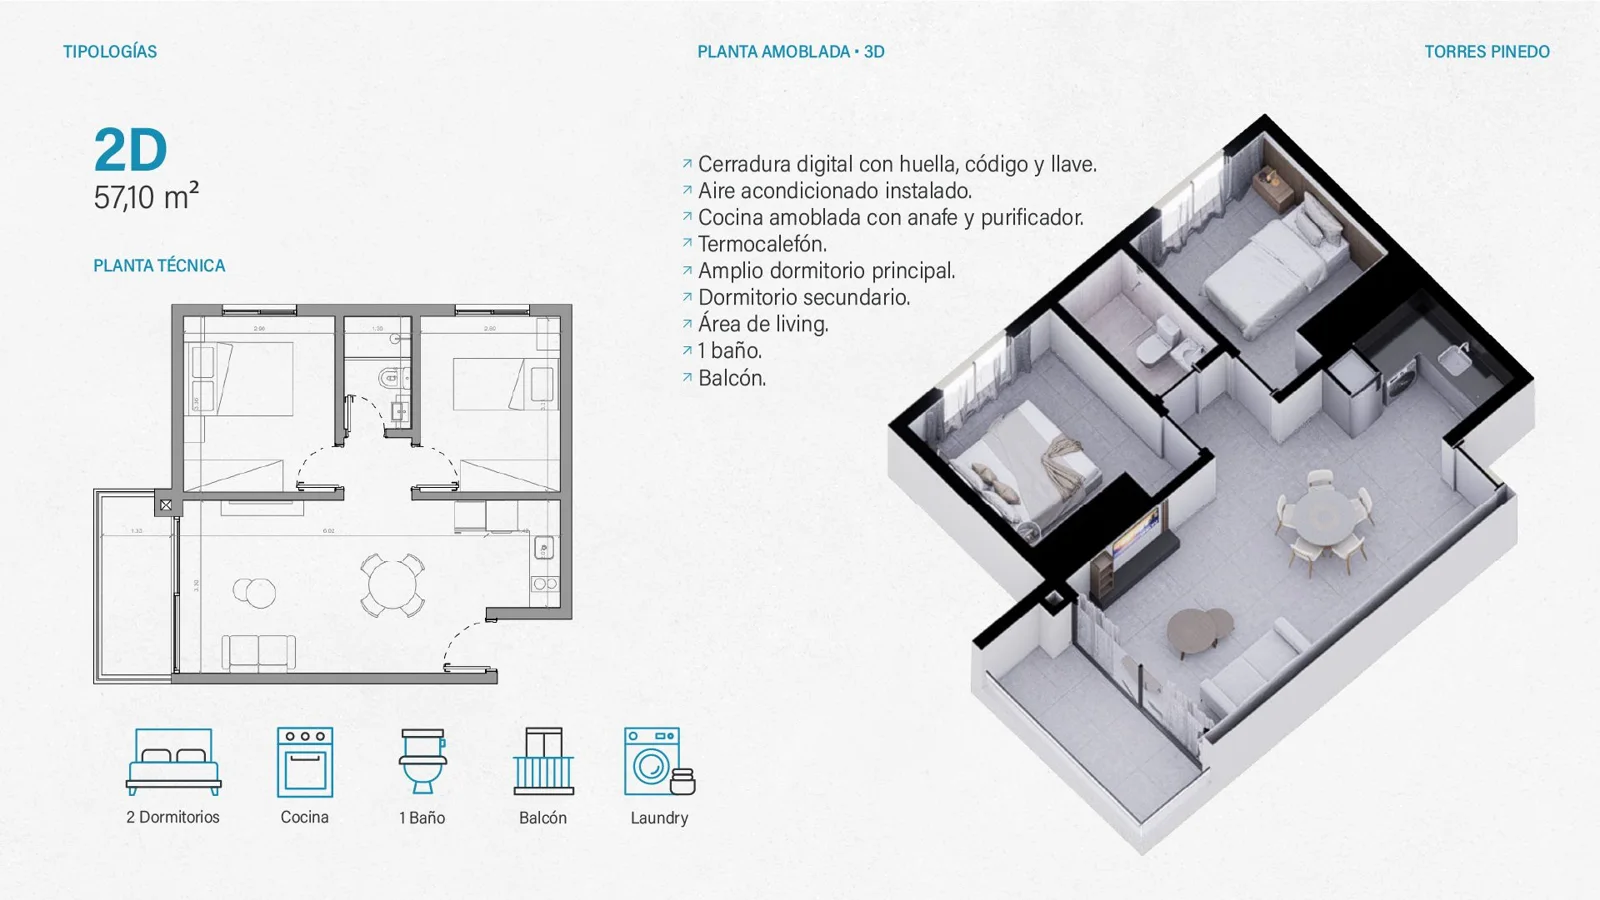
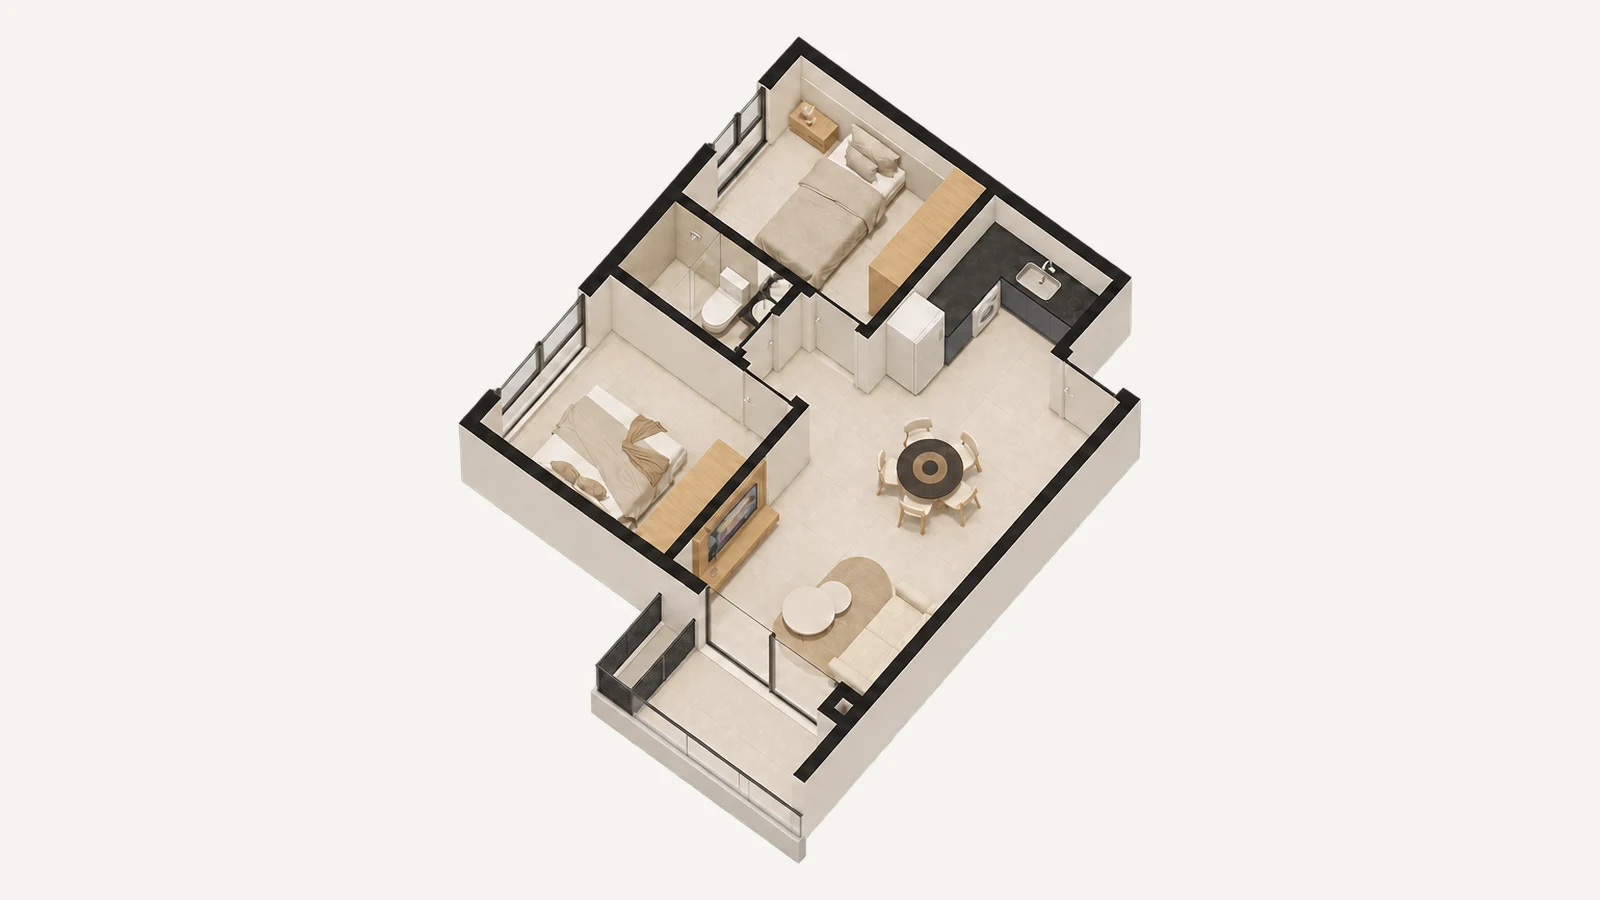
Pinedo: plantas 3D nuevas por tipología (y versión con patio en planta baja) en la ficha, el zoom y el PDF
Claude-Session: https://claude.ai/code/session_01WXN6MccAs49g9rjqcWi9do

diff --git a/sitios/pinedo/index.html b/sitios/pinedo/index.html
@@ -816,7 +816,7 @@ function renderFicha(u) {
    <div class="price num">${pr}${ver && u.precio ? `<small>${money(u.precio / u.m2)} / m²</small>` : ''}</div>
    <div style="font-size:12px;color:var(--mu);margin-top:2px">${opc ? 'Suma de las unidades ' + u.u.map(x => `${x.id} (${x.tipo}, ${x.m2} m²)`).join(' + ') : 'Precio de lista ' + CONFIG.listaFecha}</div>
    <div class="grid2"><div class="cell"><small>Superficie</small><b class="num">${String(u.m2).replace('.', ',')} m²</b></div><div class="cell"><small>Dormitorios · baños</small><b>${u.dorm || 'Studio'} · ${u.banos}</b></div><div class="cell"><small>Ubicación</small><b>Torre ${u.torre} · ${u.piso ? 'Piso ' + u.piso : 'PB'}</b></div><div class="cell"><small>${u.piso === 0 ? 'Extra' : 'Tipología'}</small><b>${u.piso === 0 ? 'Patio propio' : esc(T.tipo || u.letra)}</b></div></div>
-   <a class="lamb no-print" id="bLam"><img src="img/lam_${u.letra}.webp" alt="Plano de la tipología" loading="lazy"><span>Ampliar plano</span></a>
+   <a class="lamb no-print" id="bLam"><img src="${lamDe(u)}" alt="Plano de la tipología" loading="lazy"><span>Ampliar plano</span></a>
    ${ops.length ? `<div class="sec">Más dormitorios uniendo con la de al lado</div>${ops.map(o => { const otra = o.u.find(x => x.id !== u.id), ok = o.estado === 'disponible';
      return `<div class="optc${ok ? ' on' : ''}"><div><b>+ ${otra.id} → ${o.tipo}</b> · ${String(o.m2).replace('.', ',')} m²<br><small>${ok ? money(o.precio) + ' en total' : 'No disponible: la ' + otra.id + ' está ' + ESTN[otra.estado].toLowerCase()}</small></div>${ok ? `<button class="tbtn g" data-op="${o.id}" style="padding:8px 12px">Ver</button>` : ''}</div>`; }).join('')}` : ''}
    ${P360.length ? `<div class="sec no-print">Recorré la tipología en 360°</div><div class="amb no-print">${P360.map(([k, p]) => `<button data-k="${k}" style="background-image:url(thumbs/${k}.jpg)"><span>${esc(p.n)}</span></button>`).join('')}</div>` : ''}
@@ -835,7 +835,7 @@ function renderFicha(u) {
    <div class="btns3 no-print"><button class="btn g${UI.cmp.includes(u.id) ? ' on' : ''}" id="bCmp">${UI.cmp.includes(u.id) ? 'En comparación ✓' : 'Comparar'}</button><button class="btn g" id="bShare">Compartir link</button>
     <button class="btn g" id="bPdf">Ficha PDF</button><button class="btn g" id="bPrint">Imprimir ficha</button></div>`;
   $('#bLista').onclick = () => selUnidad(u.id);
-  $('#bLam').onclick = () => zoomImg(`img/lam_${u.letra}.webp`);
+  $('#bLam').onclick = () => zoomImg(lamDe(u));
   $$('#sideBody [data-op]').forEach(b => b.onclick = () => selUnidad(b.dataset.op));
   $$('#sideBody .amb button').forEach(b => b.onclick = () => abrir360(T.g || u.letra, b.dataset.k, `${opc ? u.id : 'Depto ' + u.id} · ${u.tipo}`));
   const qUpd = () => { const q = cotizar(u); $('#qEv').textContent = q.e + '%'; if ($('#qAv')) $('#qAv').textContent = (q.anios || UI.cot.anios) + ' años'; $('#qPlz').style.display = q.m === 'propia' ? '' : 'none';
@@ -849,6 +849,9 @@ function renderFicha(u) {
   if ($('#bLead')) $('#bLead').onclick = () => abrirLead(u);
   $('#bCmp').onclick = () => toggleCmp(u.id); $('#bShare').onclick = () => compartir(u);
 }
+// Planta 3D de la tipología; en planta baja, la versión con patio (si existe).
+const LAM_PATIO = ['SA', '1A', '1B', '1C', '2D', '3D'];
+const lamDe = u => `img/lam_${u.letra}${u.piso === 0 && LAM_PATIO.includes(u.letra) ? '_P' : ''}.webp`;
 function zoomImg(src) { $('#zoomI img').src = src; $('#zoomI').classList.add('on'); }
 $('#zoomI').onclick = () => $('#zoomI').classList.remove('on');
 
@@ -1138,7 +1141,7 @@ async function pdfFicha(u) {
   const { doc, AC, pie, banda } = pdfBase(), q = cotizar(u), nom = u.opc ? u.id.replace('+', ' + ') : (u.piso ? tr('Depto') + ' ' : 'PB ') + u.id;
   banda(`${CONFIG.proyecto.nombre} · ${nom}`, `Torre ${u.torre} · ${tr(u.tipo)} · ${u.piso ? tr('Piso') + ' ' + u.piso : 'Planta baja'} · ${CONFIG.proyecto.ubicacion}`);
   let y0 = 34;
-  try { const im = await cover(`img/lam_${u.letra}.webp`, 16 / 9, 1600); doc.addImage(im, 'JPEG', 14, 33, 182, 102.4); y0 = 33 + 102.4 + 6; } catch (e) {}
+  try { const im = await cover(lamDe(u), 16 / 9, 1600); doc.addImage(im, 'JPEG', 14, 33, 182, 102.4); y0 = 33 + 102.4 + 6; } catch (e) {}
   const ver = u.estado === 'disponible';
   doc.setFont('helvetica', 'bold'); doc.setFontSize(20); doc.setTextColor(...AC); doc.text(ver ? (u.precio ? money(u.precio) : tr('Consultar')) : tr(ESTN[u.estado]), 14, y0 + 4); doc.setTextColor(110); doc.setFontSize(9); doc.setFont('helvetica', 'normal');
   doc.text(ver && u.precio ? `${money(u.precio / u.m2)} / m2 · ${tr('Precio de lista')} ${CONFIG.listaFecha}` : '', 14, y0 + 10);
